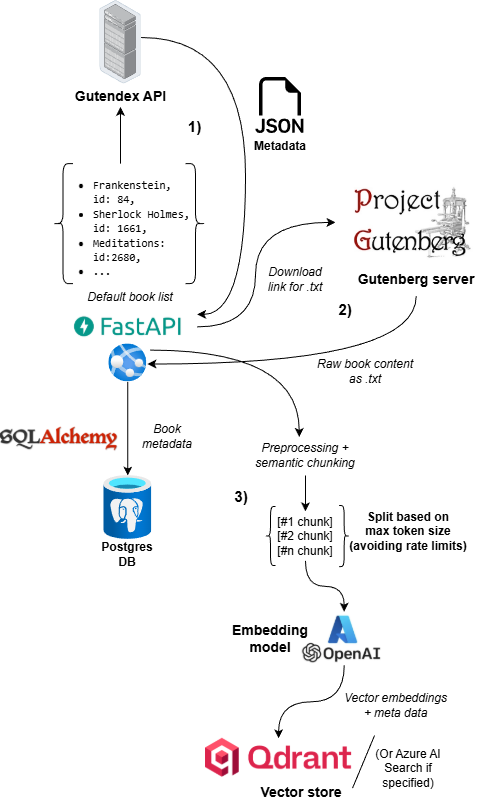
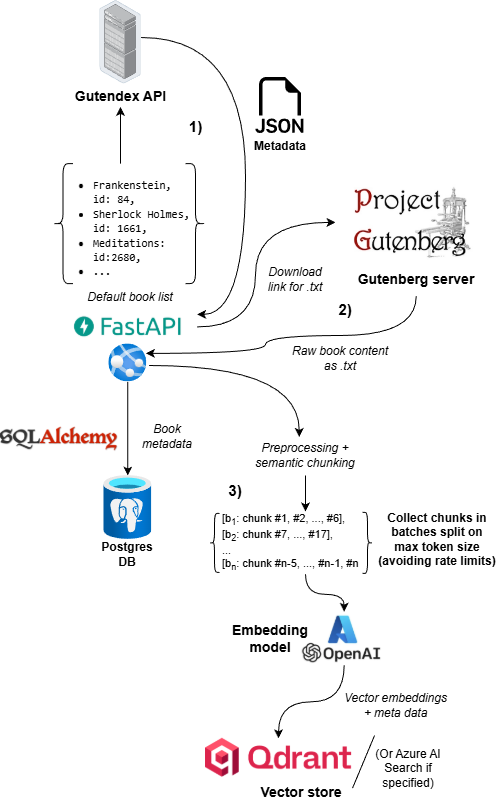
README update and imgs

diff --git a/main.py b/main.py
@@ -93,7 +93,7 @@ async def get_books_paginated(db:Annotated[AsyncSession, Depends(_get_async_db_s
 @prefix_router.get("/index/{gutenberg_id}", response_model=SearchApiResponse, status_code=status.HTTP_200_OK)
 async def get_book_from_index(gutenberg_id:Annotated[int, Path(description="Gutenberg ID to delete", gt=0)],
                                 settings:Annotated[Settings, Depends(get_settings)],
-                                db:Annotated[AsyncSession, Depends(_get_async_db_sess)]):
+                                ):
     vec_store = await settings.get_vector_store()
     book_search_page = await vec_store.get_paginated_chunks_by_book_ids(book_ids=set([gutenberg_id]))
 
@@ -214,7 +214,6 @@ async def answer_query(query:Annotated[str, Query()],
                                 timer=Timer(enabled=False))
 
     return QueryResponseApiResponse(data=llm_resp)
-
 
 
 

diff --git a/rate_limited_llama_embedder.py b/rate_limited_llama_embedder.py
@@ -1,7 +1,6 @@
 from __future__ import annotations
-
 import asyncio
-from typing import Any, Optional
+from typing import Any
 
 from pydantic import Field, ConfigDict
 from llama_index.core.embeddings import BaseEmbedding
@@ -11,18 +10,6 @@ from models.vector_db_model import EmbeddingVec
 
 Vector = list[float]
 
-
-# def _run_async(coro):
-#     try:
-#         asyncio.get_running_loop()
-#     except RuntimeError:
-#         return asyncio.run(coro)
-
-#     new_loop = asyncio.new_event_loop()
-#     try:
-#         return new_loop.run_until_complete(coro)
-#     finally:
-#         new_loop.close()
 
 def _run_async_only_if_no_loop(coro):
     """Run async coro only when no loop is running in this thread."""

diff --git a/ingestion/book_loader.py b/ingestion/book_loader.py
@@ -63,8 +63,7 @@ def _write_to_files(book_content:str, gb_meta:GBBookMeta) -> Path:
 #TODO - make unit test
 async def upload_missing_book_ids(*, book_ids:set[int], 
                                   sett:Settings, 
-                                #   db_sess:AsyncSession
-                                  ) -> tuple[list[GBBookMeta], str]:
+                                ) -> tuple[list[GBBookMeta], str]:
     """Upload and book ids to vector index and insert into book meta DB if missing"""
     vector_store = await sett.get_vector_store()
     missing_book_ids = await vector_store.get_missing_ids_in_store( book_ids=book_ids)

diff --git a/app_factory.py b/app_factory.py
@@ -14,8 +14,6 @@ async def lifespan(app: FastAPI):
     settings: Settings = app.state.settings
 
     # Decide what to seed
-    # if getattr(settings, "SEED_ON_STARTUP", True):
-        # pick IDs based on test/prod
     hp_ing = settings.get_hyperparams().ingestion
     if settings.is_test:
         seed_ids = {hp_ing.default_ids_used["Frankenstein; Or, The Modern Prometheus"]}

diff --git a/README.md b/README.md
@@ -1,15 +1,16 @@
 # 📖 Gutenberg RAG 
 
 An end-to-end Retrieval-Augmented Generation system that embeds, indexes, and queries books from [Project Gutenberg](https://www.gutenberg.org/). \
-Try out the [API here](https://gbragfastapi-accyhah2evcnfxev.westeurope-01.azurewebsites.net/docs)  *(NB - Work in progress)*
+Try out the [API here](https://gbragfastapi-accyhah2evcnfxev.westeurope-01.azurewebsites.net/docs) *(NB - Initial load can be slow due to cold booting of the container)*
 
 It’s designed to be production-ready and showcase modern vector search, advanced chunking strategies, proper evaluation, structured experiments and monitoring techniques.
 
-## Features
+## 🌟 Features
 ### RAG
 * Semantic search with embeddings using Qdrant
+* Semantic chunking, splitting chunks based on their meaning, instead of e.g. fixed lengths
 * Automatic book ingestion pipeline with text cleaning + chunking to either populate or upload books from Gutenberg
-* Fast embeddings via Azure OpenAI (text-embedding-3-small)
+* Fast embeddings via Azure OpenAI (text-embedding-3-small) with rate limiting
 * RAG response generation using Azure OpenAI GPT models
 * LLM-based reranking 
 * Evaluation with DeepEval using RAG relevant metrics:
@@ -24,35 +25,37 @@ It’s designed to be production-ready and showcase modern vector search, advanc
     - Async PostgreSQL DB hosted on Supabase (book metadata such as title, authors, language, etc.)
     - SQLAlchemy as ORM 
 - Vector DB interface and implementation: **Qdrant** / **Azure AI Search**
-- LLM: GPT-5-mini with Azure OpenAI 
-
-### Ingestion 
-For populating with the default booklist or books specified in user request \
-<img src="./imgs/GBRAG-Ingestion.png" alt="Diagram" height="585" width="475">
-
-### Retrieval 
-<img src="./imgs/GBRAG-Retrieval.png" alt="Diagram" height="575" width="585">
+- LLM: GPT-5-mini with Azure OpenAI, using a custom made lenient guardrail filter on Azure Foundry 
 
 
-#### API / Software 
+### API / Software 
 * Interfaces for easily swapping vector databases, currently supporting Qdrant and Azure AI Search
 * API uses paging for either book metadata or vector store, allowing for memory safe browsing
 * Settings, secrets and hyperparameters are handled securely and neatly organised via a Pydantinc Settings singleton
 * Built-in ratelimiter for ingestion pipeline, ensuring safely running large uploads on the embedding model
 * Pydantic data classes for strong typing and intellisense
 
-#### Production and deployment
+### Production and deployment
 * CI automated:
     * Integration and unit testing with PyTest (FastAPI + async DB)
     * Evaluation of the system using DeepEval + golden dataset
     * All steps must succeed in order to deploy ensuring quality
 * CD pushing and deploying to Azure Container Registry and Docker 
 
-#### Experiments
+### Experiments
 * All experiments are timed with a minimal custom timer
 * Logs of the results and the hyperparameters are saved after each run
 * Visualisation of experiment results
-  
+
+### Ingestion 
+Used for populating with the default booklist or book(s) specified by user request\
+<img src="./imgs/GBRAG-Ingestion.png" alt="Diagram" height="625" >
+
+TODO: *Add notes on chunking strategy, batching for rate limiting*
+
+### Retrieval 
+<img src="./imgs/GBRAG-Retrieval.png" alt="Diagram" height="525" >
+
 
 ### Automatic deployment with Docker + CI/CD pipelines
 For further details, the entire see `Dockerfile` and the CI/CD pipelines specified in `azure-pipelines.yml`
@@ -60,16 +63,24 @@ For further details, the entire see `Dockerfile` and the CI/CD pipelines specifi
 <img src="./imgs/screenshots/GB-cicd-steps.png" alt="Diagram" style="max-width: 750px; width: 100%;">
 <img src="./imgs/screenshots/GB-cicd.png" alt="Diagram" style="max-width: 750px; width: 100%;">
 
-### Approach
-...
- 
 
-## Planned features
+### Experiments and findings *(Work in progress)*
+One of the interesting challenges with works in long book form, is how they can be quite implicit and wordy, making such
+sections i.e. chunks, harder to use for more explicit who-what-where questions. Or when the answer to a question requires *multi-hopping* combining multiple chunks located at different places in the work and jointly reasoning over them all.
+
+For example in *Sherlock Holmes*, from the eval golden set `gb_gold_med.csv` the question *"Which character hires Holmes to investigate the strange advertisement seeking red-headed men?"* is non-trivial to answer for the system. 
+
+*How semantic chunking fixes this* \
+...
+
+## 📋 Planned features
 #### RAG: Improving quality in retrieval
-  * Experiment with better embedding model: Based on the [Hugging Face embedding leaderboard](https://huggingface.co/spaces/mteb/leaderboard) many better models are available. 
-  * Semantic chunking:
-    * Use dynamic chunk lengths depending the semantic context, ensuring that each chunk is as close as possible to having a single meaning, instead of many.
-    * Add "who-what-where" sentence summary or similar to each chunk header with cheap/fast LLM. 
+  
+  * Improved semantic context in chunking:
+    * ~~Use dynamic chunk lengths depending the semantic context, ensuring that each chunk is as close as possible to having a single meaning, instead of many.~~
+    * More context in chunks: Add "who-what-where" sentence summary or similar to each chunk header with cheap LLM. 
+    * Experiment with other semantic chunkers such as *Statistical chunking* or *Cumulative Semantic chunking*
+  * Experiment with better embedding models: Based on the [Hugging Face embedding leaderboard](https://huggingface.co/spaces/mteb/leaderboard) many better models are available.  
   * Hybrid search integrating with BM25 sparse vector algorithms.
   * Add halucination metric to evaluation suite
 #### Production and increased safety
@@ -77,19 +88,16 @@ For further details, the entire see `Dockerfile` and the CI/CD pipelines specifi
 * Guardrails to ensure that e.g. underage users wouldn't get inappropiate responses. Can be done directly in Azure Foundry, or custom made by adding input and output filters.
 #### Other
 * Parallelization of evaluation by using multiple threads to speed it up 
-* Adding interface for embedding models
+* Adding interface for embedding models to also make them easily swapable
 * Further API integration tests + test coverage on Azure Devops
 
-
-### Experiments and findings *(Work in progress)*
-... 
 
 
 ### Misc
 - Hyperparameter json files used are prefixed by 'hp' and are found in the folder `config`.
 - Golden datasets for evaluation are located in folder `evals/datasets`
 
-
+____
 
 **Contact** \
 Alekxander Baxwill - alekx.baxwill@hotmail.com
